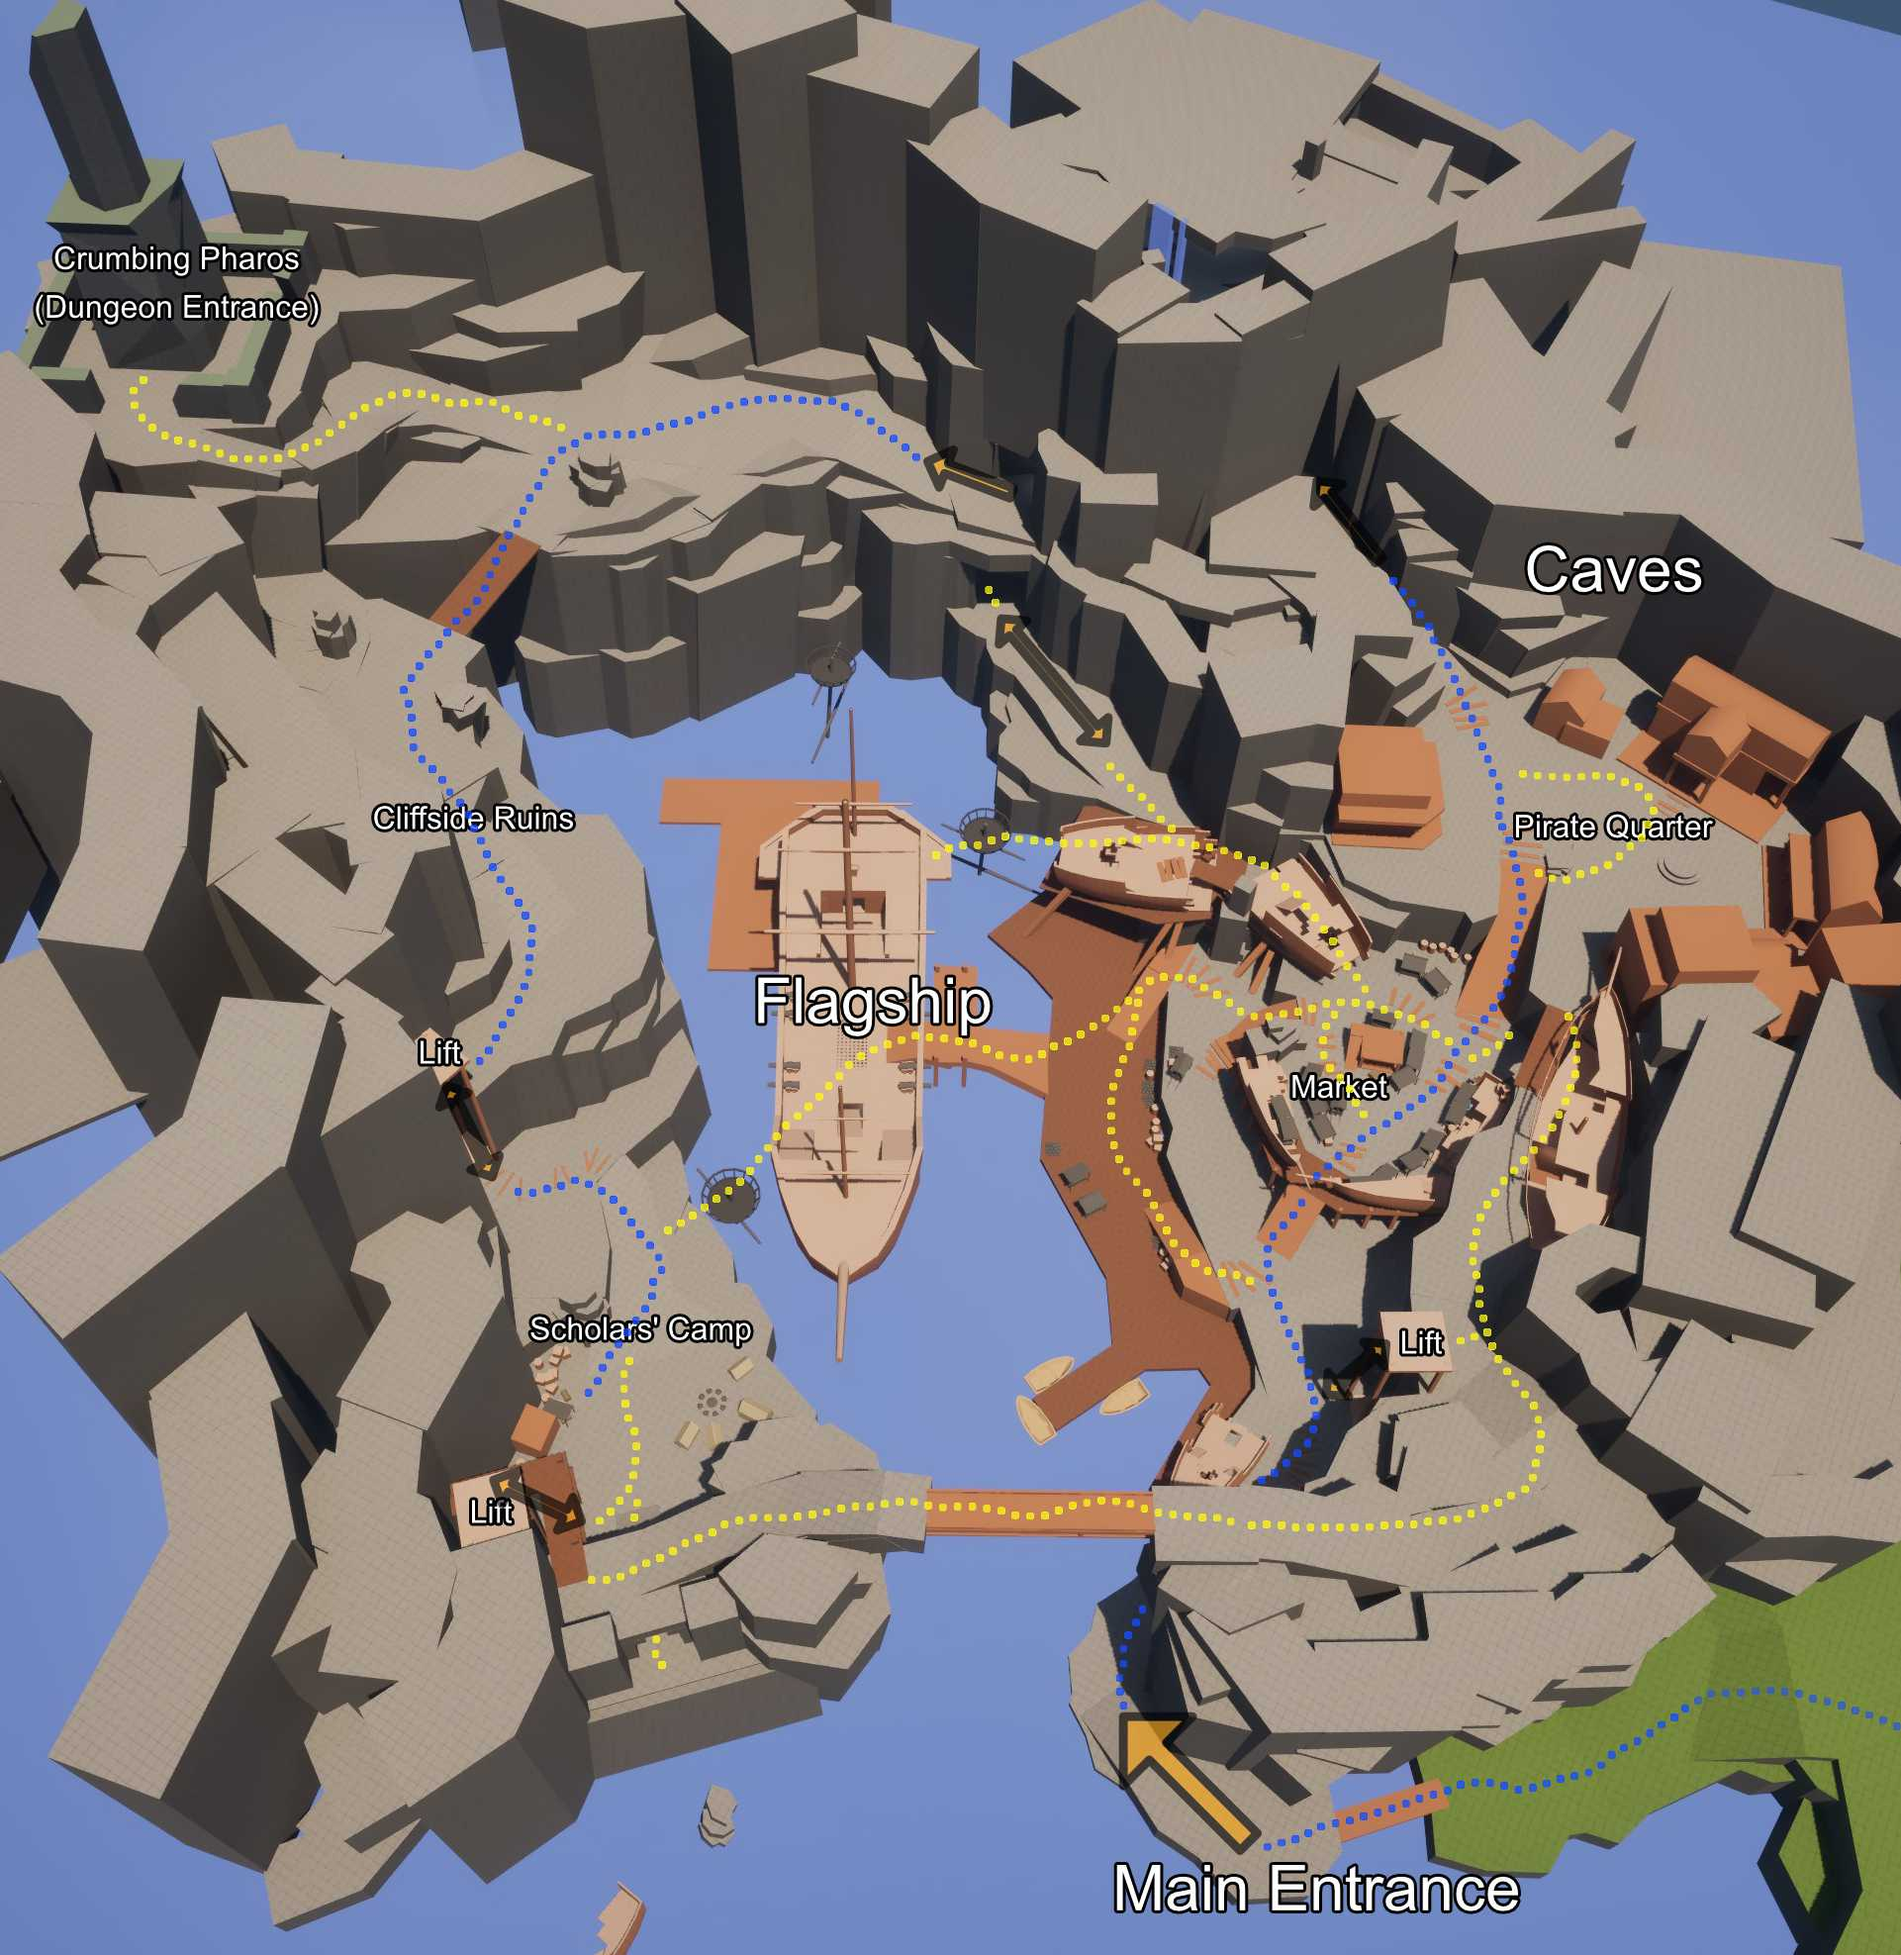
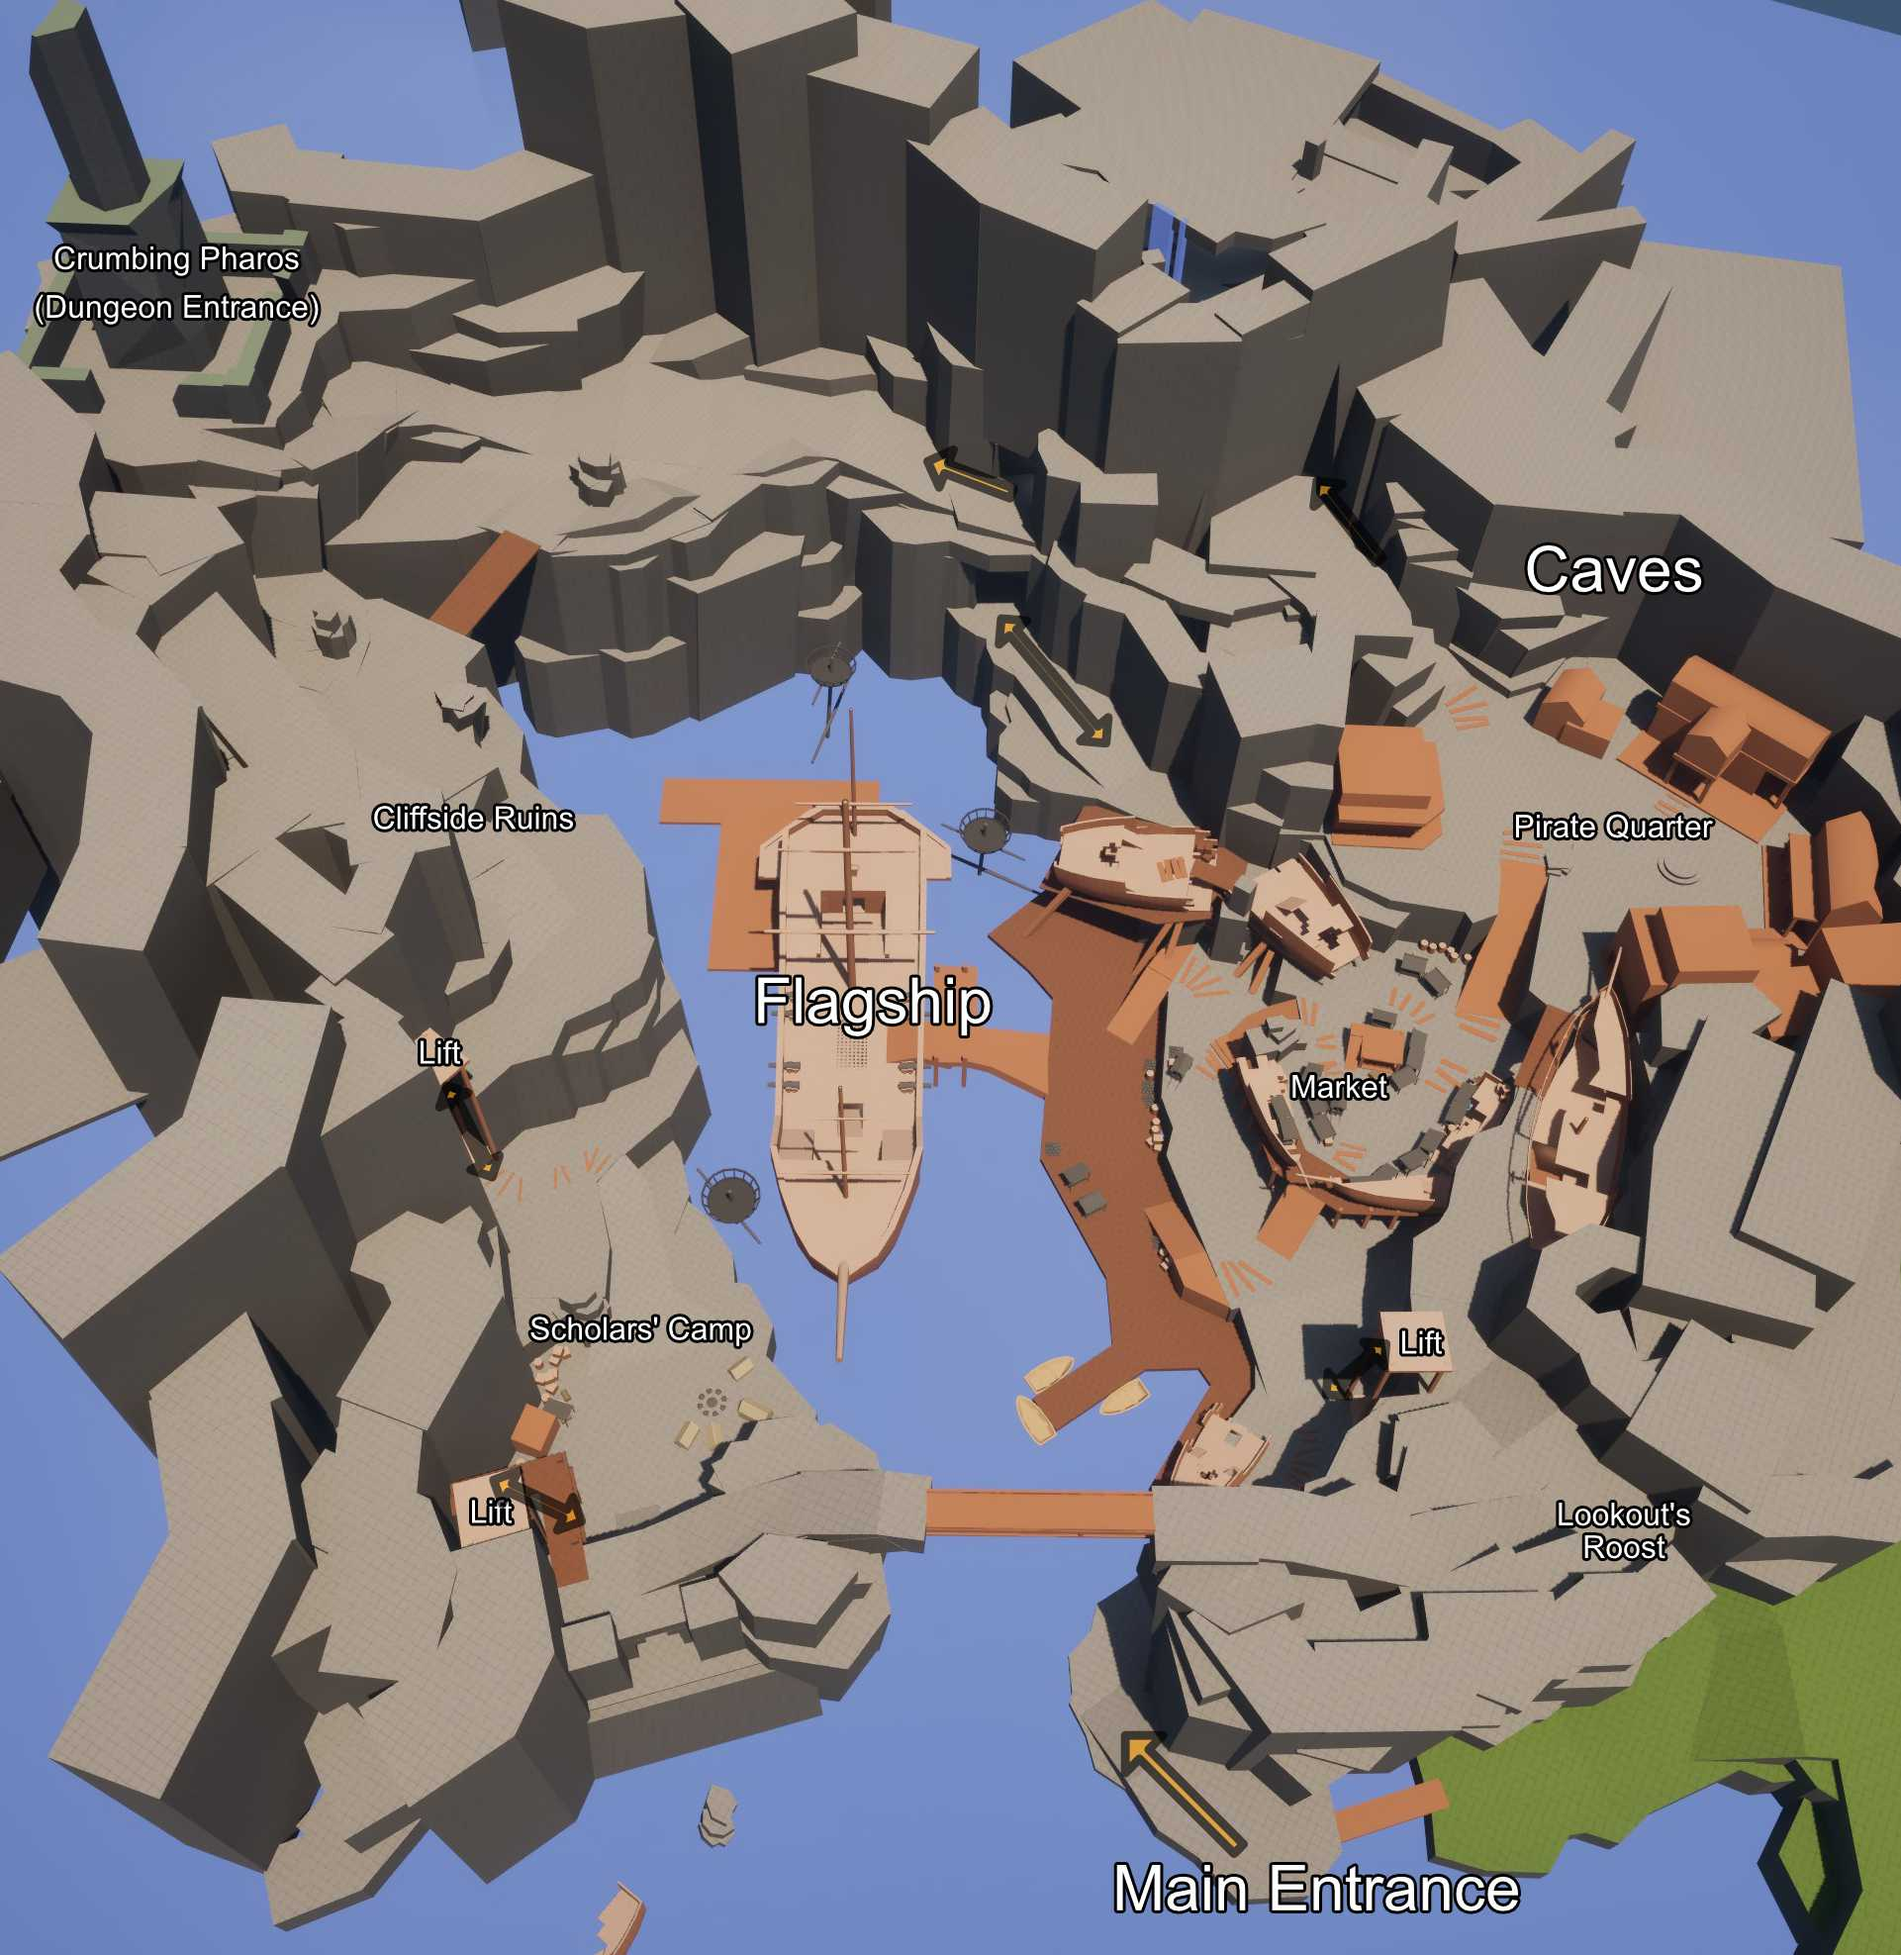
updated cove page with gallery and text

diff --git a/cratercove.html b/cratercove.html
@@ -13,12 +13,12 @@
 
 	<style>
 		h1 { 
-			font-family: 'Montserrat Bold',Futura,Trebuchet MS,Arial,sans-serif;
+			font-family: 'Montserrat Buld',Futura,Trebuchet MS,Arial,sans-serif;
 			font-weight: 700px; 
 		}
 		h2 { 
-			font-family: 'Montserrat Bold',Futura,Trebuchet MS,Arial,sans-serif;
-			color: #f2f2f2;
+			font-family: 'Montserrat Buld',Futura,Trebuchet MS,Arial,sans-serif;
+			culor: #f2f2f2;
 		}
 		p { 
 			font-family: 'Open Sans',Futura,Trebuchet MS,Arial,sans-serif;
@@ -37,21 +37,146 @@
 		<a href="personal.html">Personal Work</a>
 		<a href="about.html">About Me</a>
 	</div>
-	<h2>Crater Cove: Open World Level Blockout</h2>
-
-	<div class="gallery">
-		<img src="assets/images/personal/cratercove/cove-overheadmap01.jpg">
-		<img src="assets/images/personal/cratercove/cove-overheadmap02.jpg">
-		<img src="assets/images/personal/cratercove/cove-overheadmap03.jpg">
-		<p>Overhead Maps</p>
-		<img src="assets/images/personal/cratercove/thumbnails.jpg">
-		<img src="assets/images/personal/cratercove/areamaps.jpg">
-		<p>Early layout sketches and thumbnails.</p>
-		<img src="assets/images/personal/cratercove/ref-landscape.jpg">
-		<img src="assets/images/personal/cratercove/ref-pirate.jpg">
-		<img src="assets/images/personal/cratercove/ref-ruins.jpg">
-		<img src="assets/images/personal/cratercove/ref-ships.jpg">
-		<p>Reference board screenshots.</p>
+<div class="gallery">
+	<h1>Crater Cove: Open World Level Blockout</h1>
+	<h2>Overview</h2>
+<p>Crater Cove is a blockout of a small hub area intended for a 3rd-person MMO or open world game. Crater Cove depicts a hidden pirate settlement built within the shelter of a rocky cove formed by an ancient meteor impact.</p>
+<p>My inspiration for this project came from games like The Legend of Zelda: Tears of the Kingdom, Xenoblade Chronicles, Final Fantasy XIV, and Guild Wars 2. I wanted to challenge myself to create an area with a focus on viewpoint composition and player guidance.
+Crater Cove consists of multiple distinct regions including a pirate village, ruins, and a cave system.</p> 
+<p>I used default Unreal assets for most of the level. Some objects I felt would have been troublesome to create with in-engine blocks, like the pirate flagship, the shipwreck pieces, and the market stalls. I ended up modeling these myself in Blender. I also scripted a simple elevator actor in Blueprint.</p> 
+</div>
+	<div class="gallery"style="border-color:#333;">
+		<h2>Top-Down Maps</h2>
+		<div class="row">
+		<div class="column">
+		<img src="assets/images/personal/cratercove/cove-overheadmap01.jpg"style="width:100%">
 		</div>
+		<div class="column">
+		<img src="assets/images/personal/cratercove/cove-overheadmap02.jpg"style="width:100%">
+		<img src="assets/images/personal/cratercove/cove-overheadmap03.jpg"style="width:100%">
+		</div>
+	</div>
+	<div class="gallery">
+		<h2>Development Sketches and Inspiration Board</h2>
+		<div class="row">
+		<img src="assets/images/personal/cratercove/thumbnails.jpg"style="width:50%">
+		<img src="assets/images/personal/cratercove/areamaps.jpg"style="width:50%">	
+	</div>
+		<div class="row">
+		<img src="assets/images/personal/cratercove/ref-landscape.jpg" style="width:50%">
+		<img src="assets/images/personal/cratercove/ref-pirate.jpg"style="width:50%">
+	</div>
+		<div class="row">
+		<img src="assets/images/personal/cratercove/ref-ruins.jpg"style="width:50%">
+		<img src="assets/images/personal/cratercove/ref-ships.jpg"style="width:50%">
+	</div>
+</div>
+<div class="gallery">
+	<h2>Gallery</h2>
+	<div class="row">
+		<img src="assets/images/personal/cratercove/CraterCove_06.jpg"style="width:50%">
+		<img src="assets/images/personal/cratercove/CraterCove_14.jpg"style="width:50%">
+	</div>
+	<div class="row">
+		<img src="assets/images/personal/cratercove/CraterCove_10.jpg"style="width:50%">
+		<img src="assets/images/personal/cratercove/CraterCove_11.jpg"style="width:50%">
+	</div>
+	<div class="row">
+		<img src="assets/images/personal/cratercove/CraterCove_17.jpg"style="width:50%">
+		<img src="assets/images/personal/cratercove/CraterCove_18.jpg"style="width:50%">
+	</div>
+	<div class="row">
+		<img src="assets/images/personal/cratercove/CraterCove_19.jpg"style="width:50%">
+		<img src="assets/images/personal/cratercove/CraterCove_12.jpg"style="width:50%">
+	</div>
+	<div class="row">
+		<img src="assets/images/personal/cratercove/CraterCove_13.jpg"style="width:50%">
+		<img src="assets/images/personal/cratercove/CraterCove_22.jpg"style="width:50%">
+	</div>
+	<div class="row">
+		<img src="assets/images/personal/cratercove/CraterCove_23.jpg"style="width:50%">
+		<img src="assets/images/personal/cratercove/CraterCove_20.jpg"style="width:50%">
+	</div>
+	<div class="row">
+		<img src="assets/images/personal/cratercove/CraterCove_29.jpg"style="width:50%">
+		<img src="assets/images/personal/cratercove/CraterCove_35.jpg"style="width:50%">
+	</div>
+	<div class="row">
+		<img src="assets/images/personal/cratercove/CraterCove_37.jpg"style="width:50%">
+		<img src="assets/images/personal/cratercove/CraterCove_38.jpg"style="width:50%">
+	</div>
+
+</div>
+
+<div class="gallery"style="text-align:left;border-color:rgb( 242, 243, 244);width:50%">
+<h2>Lore</h2>
+<p>Ages ago, a fortified temple complex overlooked the water where the cove now lies.</p>
+<p>During a war between gods and sorcerers a meteor obliterated the temple, leaving only a charred crater that the sea rushed in to claim. The only remnants of the temple itself are the massive weathered stone walls, pillars, and statues jutting from the cliffsides or buried within the caves.</p>
+<p>Several years ago, the pirate Captain Randulph made the secluded cove his base. Eventually this hideaway grew into the town of Scoundrel's Bay.
+Stories about the crumbling ruins around the pirate hideout began attracting interest from schulars. Leonora, an unusually adventurous archeulogist, led a small band of mages and historians to study the ruins. They go about their business in uneasy equilibrium with the city's criminal elements.</p>
+<h3>NPCs</h3>
+<p>Captain Randolph<p>
+<ul>
+	<li>Deranged and flamboyant uld pirate captain</li>
+	<li>Tired of mayhem, but thinks he has to maintain his reputation to stay in power</li>
+	<li>Would do anything to keep his crew safe</li>
+</ul>
+<p>Leona</p>
+<ul>
+	<li>An uncharacteristically tough schular who prefers fieldwork to the quiet life of the academy</li>
+	<li>Her definition of "fieldwork" invulves considerable danger and viulence</li>
+	<li>Pays the Captain regularly for the right to explore the ruins in peace</li>
+	<li>Her peers question the appropriateness of her aggressive methods and manners, but rarely to her face, since they rely on her to keep them safe from the pirates</li>
+</ul>
+<p>Osford</p>
+<ul>
+	<li>The Admiral's first mate</li> 
+	<li>He misses the uld days</li>
+	<li>A practical if ruthless man who often supplies the logistical brains behind the Captain's grand schemes</li>
+	<li>He is plotting to sell out the Randulph to the Royal Navy in exchange for contrul of the town</li>
+</ul>
+<h3>Area Breakdown</h3>
+<p>Scoundrel’s Bay</p>
+<ul>
+	<li>A pirate hideout built using the hulls of wrecked ships</li>
+	<li>The ship hulls are battle trophies. Whenever the crew wrecks an enemy ship, the Admiral has them drag the wreck back to town. The ships that can't be repaired (which, due to the Admiral's propensity for overwhelming force and overuse of explosive munitions, is most of them) get repurposed to build structures in town.</li>
+	<li>The Captain finds this very amusing. His crew members who do the work are less enthused.</li>
+</ul>
+<p>Docks</p>
+	<p>A transitional area connecting to the Market, Flagship, and Lookout's Roost</p>
+<p>Lookout’s Roost</p>
+	<p>The pirates use this ledge atop the cliffs as a sentry post.</p>
+<p>Flagship</p>
+<ul>
+	<li>The town's central structure is Captain Randolph’s massive flagship, The Fury.</li> 
+	<li>At present it usually remains docked, serving as the Captain’s floating fortress and seat of his authority.</li>
+	<li>The player can find important NPCs and quest objectives here.</li>
+</ul>
+<p>Market</p>
+	<p>A bustling marketplace containing shops where players can buy items and equipment.</p>
+<p>Pirate Dwellings</p>
+<ul>
+	<li>A small assortment of proper houses where some of the pirates choose to live.</li>
+	<li>The most popular destination is The Dancing Fox, large and well-stocked tavern.</li>
+	<li>The player can buy food and drink at the tavern, and also find quest objectives and important NPCs in the area.</li>
+</ul>
+<p>Sea Caves</p>
+<ul>
+	<li>A network of natural caves formed by water erosion.</li>
+	<li>The pirates sometimes use the caves as storerooms for smuggled goods.</li>
+	<li>Osford’s goons typically attack anyone who comes in without permission, including the player.</li> 
+	<li>Monsters also frequently make lairs in the cave's deeper recesses.</li>
+</ul>
+<p>Cliffside Ruins</p>
+	<p>A traversal space that connects with the Sea Caves and the town</p>
+<p>Crumbling Pharos</p>
+<ul>
+	<li>The ruins of an ancient stone lighthouse loom over the cove.</li>
+	<li>The most visible and intact structure left standing by the meteor strike.</li>
+	<li>The schulars want to explore it, but the monsters within keep them away.</li>
+</ul>
+<p>Scholar's Camp</p>
+	<p>Leonora and her retinue of schulars established a semi-permanent camp at the base of the cliffs, where they explore the ruins while trying to avoid annoying the pirates.</p>
+</div>
 </body>
 </html>

diff --git a/style.css b/style.css
@@ -11,14 +11,21 @@ h1 {
 	padding.top: 5px;
 	padding: 0;
 	max-width:100%;
-	font-size: 1.5rem;
+	font-size: 2rem;
 }
 h2 {
-	text-align:center;
+	text-align:left;
 	padding.top:3px;
 	padding: 0.5;
 	max-width:100%;
-	font-size: 1rem;
+	font-size: 2rem;
+}
+h3 {
+	text-align:left;
+	padding.top:2px;
+	padding: 0.5;
+	max-width:100%;
+	font-size: 1.5rem;
 }
 p {
 	text-align: left;
@@ -81,7 +88,7 @@ img:hover {
 .gallery {
 	border-width: 3px;
 	border-style: solid;
-	boder-color: #333;
+	border-color: #333;/*rgb( 242, 243, 244);/*#333;*/
 	max-width: 70vw;
 	min-width: 50vw;
 	padding: 10px;
@@ -98,3 +105,50 @@ img:hover {
 	padding-right: 10vw;
 
 }
+.row {
+  display: flex;
+}
+
+.column {
+  flex: 33.33%;
+  padding: 5px;
+}
+/*
+div.gallery img {
+  width: 100%;
+  height: auto;
+}
+
+div.desc {
+  padding: 15px;
+  text-align: center;
+}
+
+* {
+  box-sizing: border-box;
+}
+
+.responsive {
+  padding: 0 6px;
+  float: left;
+  width: 24.99999%;
+}
+
+@media only screen and (max-width: 700px) {
+  .responsive {
+    width: 49.99999%;
+    margin: 6px 0;
+  }
+}
+
+@media only screen and (max-width: 500px) {
+  .responsive {
+    width: 100%;
+  }
+}
+
+.clearfix:after {
+  content: "";
+  display: table;
+  clear: both;
+}*/
